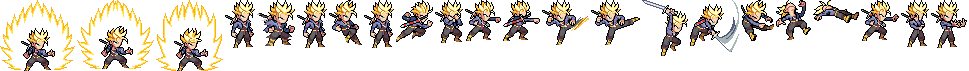
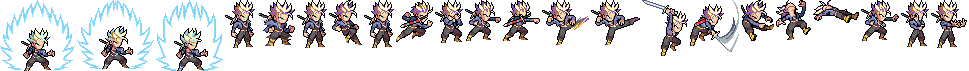
Formes Super Saiyan avec les vrais sprites des planches : SSJ, SSJ2 et SSJ3 (Goku), Trunks de base lavande
Claude-Session: https://claude.ai/code/session_01FhKFyMAgHcsF9rn4nPnHjt

diff --git a/js/game.js b/js/game.js
@@ -158,7 +158,7 @@ const whiteCache = new Map();
 
 function loadImages(onProgress) {
   const list = ['arena_tournoi.jpg'];
-  ROSTER.forEach(r => { list.push(r.id + '_idle.png', r.id + '_por.png', 'frames/' + r.id + '.png', 'beams/' + r.id + '.png'); if (SAIYANS.has(r.id)) list.push('frames/' + r.id + '_ssj.png'); });
+  ROSTER.forEach(r => { list.push(r.id + '_idle.png', r.id + '_por.png', 'frames/' + r.id + '.png', 'beams/' + r.id + '.png'); if (typeof FORMS !== 'undefined' && FORMS[r.id]) [...new Set(FORMS[r.id].map(x => x.atlas))].forEach(a => list.push('frames/' + a + '.png')); });
   let done = 0;
   return Promise.all(list.map(f => new Promise(res => {
     const im = new Image();
@@ -218,13 +218,16 @@ function toggleFullscreen() {
 const BOUNDS = { y0: 235, y1: 500 };
 function boundsX(y) { const t = (y - BOUNDS.y0) / (BOUNDS.y1 - BOUNDS.y0); return [140 - 70 * t, 820 + 70 * t]; }
 
-const SAIYANS = new Set(['goku', 'vegeta', 'gohan', 'trunks']);
-const SSJ_TIME = 1.5, SSJ_DUR = 45;
+const MAXFORM = { goku: 3, vegeta: 2, gohan: 2, trunks: 2 };
+const SAIYANS = new Set(Object.keys(MAXFORM));
+const SSJ_DUR = 45;
+const FORM_NAME = ['', 'SUPER SAIYAN', 'SUPER SAIYAN 2', 'SUPER SAIYAN 3'], FORM_TAG = ['', 'SSJ', 'SSJ2', 'SSJ3'];
+const FORM_TIME = [0, 1.5, 2.0, 2.6], FORM_DMG = [1, 1.3, 1.5, 1.75], FORM_DEF = [1, 0.88, 0.82, 0.75], FORM_SPD = [1, 1.12, 1.2, 1.28], FORM_DRAIN = [0, 0, 1.5, 4];
 
 class Fighter {
   constructor(def) {
     this.def = def; this.img = IMG[def.id + '_idle']; this.por = IMG[def.id + '_por'];
-    this.maxhp = def.hp; this.hp = def.hp; this.ki = 30; this.guard = 100; this.ssj = false; this.ssjT = 0; this.ssjLeft = 0;
+    this.maxhp = def.hp; this.hp = def.hp; this.ki = 30; this.guard = 100; this.form = 0; this.formT = 0; this.formLeft = 0;
     this.alive = true; this.reset(0, 0);
   }
   reset(x, y) {
@@ -288,7 +291,7 @@ class Battle {
   damage(att, tgt, P, kind) {
     if (!tgt.alive || tgt.state === 'ko' || tgt.inv > 0) return false;
     const mult = styleMult(att.def.style, tgt.def.style);
-    let D = P * (att.def.atk / tgt.def.def) * mult * rand(0.95, 1.05) * (att.ssj ? 1.3 : 1) * (tgt.ssj ? 0.88 : 1);
+    let D = P * (att.def.atk / tgt.def.def) * mult * rand(0.95, 1.05) * FORM_DMG[att.form] * FORM_DEF[tgt.form];
     const blocked = tgt.guarding && tgt.guardBroken <= 0 && sign(att.x - tgt.x) === tgt.face;
     const cy = tgt.y - 80;
     if (blocked) {
@@ -311,9 +314,9 @@ class Battle {
     if (tgt.hp <= 0) this.ko(tgt);
     return true;
   }
-  goSSJ(f) {
-    f.ssj = true; f.ssjT = 0; f.ssjLeft = SSJ_DUR; f.ki = 100; f.hp = Math.min(f.maxhp, f.hp + f.maxhp * 0.1); f.flash = 0.5; f.inv = Math.max(f.inv, 0.6); this.shake = 16;
-    this.spark(f.x, f.y - 70, '#ffe45f', 34, 420); this.pop(f.x, f.y - 190, 'SUPER SAIYAN !', '#ffe45f');
+  goForm(f) {
+    f.form++; f.formT = 0; f.formLeft = SSJ_DUR; f.ki = 100; f.hp = Math.min(f.maxhp, f.hp + f.maxhp * 0.1); f.flash = 0.5; f.inv = Math.max(f.inv, 0.6); this.shake = 14 + f.form * 4;
+    this.spark(f.x, f.y - 70, '#ffe45f', 24 + f.form * 12, 380 + f.form * 60); this.pop(f.x, f.y - 190, FORM_NAME[f.form] + ' !', '#ffe45f');
     Snd.play('ult'); Snd.voice(f.def.id, 'ult');
   }
   stun(f, d) { if (f.state === 'ko') return; f.state = 'hurt'; f.st = d; f.stDur = d; f.combo = 0; f.charging = false; f.fired = true; }
@@ -364,10 +367,14 @@ class Battle {
     f.shieldHit -= dt; f.guarding = false; if (f.state === 'idle' && inp.guard && f.guardBroken <= 0 && f.guard > 0) { f.guarding = true; f.guard -= 14 * dt; } else if (f.guard < 100 && f.guardBroken <= 0) f.guard = Math.min(100, f.guard + 18 * dt);
     if (f.guard < 0) f.guard = 0;
     f.gAge = f.guarding ? Math.min(1, f.gAge + dt * 9) : 0;
-    if (!f.charging && !f.ssj) f.ssjT = Math.max(0, f.ssjT - dt * 2);
-    if (f.ssj) { f.ssjLeft -= dt; if (f.ssjLeft <= 0) { f.ssj = false; this.pop(f.x, f.y - 170, 'FIN DU SSJ', '#ffffff'); } }
+    if (!f.charging) f.formT = Math.max(0, f.formT - dt * 2);
+    if (f.form > 0) {
+      f.formLeft -= dt; f.ki -= FORM_DRAIN[f.form] * dt;
+      if (f.formLeft <= 0) { f.form = 0; f.formT = 0; this.pop(f.x, f.y - 170, 'FIN DE LA TRANSFORMATION', '#ffffff'); }
+      else if (f.ki <= 0) { f.ki = 5; f.form--; f.formLeft = SSJ_DUR; this.pop(f.x, f.y - 170, f.form ? 'RETOUR ' + FORM_TAG[f.form] : 'FIN DE LA TRANSFORMATION', '#ffffff'); }
+    }
     f.charging = false;
-    const spd = def.spd * (f.ssj ? 1.12 : 1);
+    const spd = def.spd * FORM_SPD[f.form];
 
     if (f.state === 'hurt') { f.st -= dt; f.x += f.vx * dt; f.vx *= Math.pow(0.02, dt); if (f.st <= 0) { f.state = 'idle'; } this.clampPos(f); return; }
     f.x += f.vx * dt; f.vx *= Math.pow(0.02, dt);
@@ -399,7 +406,7 @@ class Battle {
     if (inp.ult && f.ki >= COST.ult) { f.ki -= COST.ult; f.state = 'ult'; f.st = f.stDur = 0.7; f.fired = false; Snd.play('ult'); Snd.voice(f.def.id, 'ult'); return; }
     if (inp.blast && f.ki >= COST.blast) { f.ki -= COST.blast; f.state = 'cast'; f.st = f.stDur = 0.26; f.fired = false; Snd.voice(f.def.id, 'hit', 0.5); return; }
     if (inp.atk) { if (f.comboT <= 0 && f.combo >= 3) f.combo = 0; if (f.comboT <= 0) f.combo = 0; this.startAtk(f); return; }
-    if (inp.charge && !f.guarding) { if (!f.charging && this.t - (f.cvT || -9) > 2.2) { f.cvT = this.t; Snd.voice(def.id, 'charge'); } f.charging = true; if (SAIYANS.has(def.id) && !f.ssj) { if (f.ki >= 99.9) { f.ssjT += dt; if (f.ssjT >= SSJ_TIME) { this.goSSJ(f); return; } } else f.ssjT = Math.max(0, f.ssjT - dt); } if (Math.random() < 0.4) this.parts.push({ x: f.x + rand(-30, 30), y: f.y - rand(10, 120), vx: 0, vy: -rand(60, 140), life: 0.5, max: 0.5, color: STYLES[def.style].c, size: 3 }); return; }
+    if (inp.charge && !f.guarding) { if (!f.charging && this.t - (f.cvT || -9) > 2.2) { f.cvT = this.t; Snd.voice(def.id, 'charge'); } f.charging = true; if (f.form < (MAXFORM[def.id] || 0)) { if (f.ki >= 99.9) { f.formT += dt; if (f.formT >= FORM_TIME[f.form + 1]) { this.goForm(f); return; } } else f.formT = Math.max(0, f.formT - dt); } if (Math.random() < 0.4) this.parts.push({ x: f.x + rand(-30, 30), y: f.y - rand(10, 120), vx: 0, vy: -rand(60, 140), life: 0.5, max: 0.5, color: STYLES[def.style].c, size: 3 }); return; }
     const k = f.guarding ? 0.3 : 1;
     f.walking = !!(inp.mx || inp.my) && !f.guarding; if (f.walking) f.wt += dt * 9;
     f.x += inp.mx * 285 * spd * k * dt; f.y += inp.my * 190 * spd * k * dt; this.clampPos(f);
@@ -433,7 +440,7 @@ class Battle {
         if (Math.random() < d.atk) k.atk = true; else if (Math.random() < 0.4) a.guardT = 0.4; else k.mx = -sign(dx);
       } else if (Math.abs(dy) < 28 && dist > 190 && f.ki >= COST.blast && Math.random() < d.blast) k.blast = true;
       else if (f.ki < 20 && dist > 300 && Math.random() < 0.5) k.charge = true;
-      else if (SAIYANS.has(f.def.id) && !f.ssj && f.ki >= 95 && dist > 330 && Math.random() < 0.6) k.charge = true;
+      else if (f.form < (MAXFORM[f.def.id] || 0) && f.ki >= 95 && dist > 330 && Math.random() < 0.6) k.charge = true;
       else {
         k.mx = Math.abs(dx) > 80 ? sign(dx) : 0; k.my = Math.abs(dy) > 14 ? sign(dy) : 0;
       }
@@ -546,7 +553,7 @@ class Battle {
     this.drawHUD();
   }
   pickFrame(f) {
-    const fr = typeof FRAMES !== 'undefined' && FRAMES[f.def.id], at = (f.ssj && IMG['atlas_' + f.def.id + '_ssj']) || IMG['atlas_' + f.def.id];
+    const fm = f.form > 0 && typeof FORMS !== 'undefined' && FORMS[f.def.id] && FORMS[f.def.id][f.form - 1], fr = fm ? fm.fr : (typeof FRAMES !== 'undefined' && FRAMES[f.def.id]), at = fm ? IMG['atlas_' + fm.atlas] : IMG['atlas_' + f.def.id];
     if (!fr || !at || !at.width) return null;
     let r = fr.idle;
     const pair = k => { const v = fr[k]; return Array.isArray(v[0]) ? v : [v, v]; };
@@ -557,7 +564,7 @@ class Battle {
     else if (f.state === 'cast') r = fr.cast;
     else if (f.state === 'ult') r = f.fired ? fr.ultf : fr.ultw;
     else if (f.guarding) r = fr.guard;
-    else if (f.charging && fr.charge && !f.ssj) { const c = fr.charge; r = Array.isArray(c[0]) ? c[Math.floor(f.anim * 10) % c.length] : c; }
+    else if (f.charging && fr.charge) { const c = fr.charge; r = Array.isArray(c[0]) ? c[Math.floor(f.anim * 10) % c.length] : c; }
     else if (f.walking && fr.walk) { const w = fr.walk; r = Array.isArray(w[0]) ? w[Math.floor(f.wt) % w.length] : w; }
     return { at, r, ref: fr.idle };
   }
@@ -577,13 +584,22 @@ class Battle {
       for (let i = 0; i < 2; i++) { const q = ((f.anim * 1.6 + i * 0.5) % 1); ctx.save(); ctx.globalAlpha = (1 - q) * 0.7; ctx.strokeStyle = STYLES[f.def.style].c; ctx.lineWidth = 3; ctx.beginPath(); ctx.ellipse(0, 2, 30 + q * 70, 7 + q * 16, 0, 0, 6.3); ctx.stroke(); ctx.restore(); }
       if (AURA[f.def.id]) auraFlames(0, 0, h0 * 1.6, AURA[f.def.id], f.anim);
     }
-    if (f.ssj || f.ssjT > 0) {
-      const k = f.ssj ? 1 : f.ssjT / SSJ_TIME, fl = 0.75 + 0.25 * Math.sin(f.anim * 25);
+    if (f.form > 0 || f.formT > 0) {
+      const nf = Math.max(1, f.form), k = f.form > 0 ? 1 : f.formT / FORM_TIME[f.form + 1], fl = 0.75 + 0.25 * Math.sin(f.anim * 25), sz = 1 + 0.3 * (nf - 1);
       ctx.save(); ctx.globalCompositeOperation = 'lighter';
-      const g = ctx.createRadialGradient(0, -h0 / 2, 8, 0, -h0 / 2, 70 + 55 * k); g.addColorStop(0, 'rgba(255,230,90,' + (0.55 * k * fl) + ')'); g.addColorStop(1, 'rgba(255,200,40,0)');
-      ctx.fillStyle = g; ctx.fillRect(-140, -h0 - 80, 280, h0 + 120);
+      const g = ctx.createRadialGradient(0, -h0 / 2, 8, 0, -h0 / 2, (70 + 55 * k) * sz); g.addColorStop(0, 'rgba(255,230,90,' + (0.55 * k * fl) + ')'); g.addColorStop(1, 'rgba(255,200,40,0)');
+      ctx.fillStyle = g; ctx.fillRect(-170, -h0 - 110, 340, h0 + 150);
       ctx.fillStyle = 'rgba(255,225,80,' + (0.5 * k) + ')';
-      for (let i = 0; i < 7; i++) { const ph = (f.anim * 3 + i * 0.37) % 1, bx = (i - 3) * 11 + Math.sin(f.anim * 9 + i) * 4, bh = (40 + (i % 3) * 22) * (1 - ph * 0.3) * k; ctx.beginPath(); ctx.moveTo(bx - 6, 0); ctx.lineTo(bx, -h0 * 0.55 - bh); ctx.lineTo(bx + 6, 0); ctx.fill(); }
+      const nb = 5 + nf * 2;
+      for (let i = 0; i < nb; i++) { const ph = (f.anim * 3 + i * 0.37) % 1, bx = (i - nb / 2) * (22 / nb * 3) + Math.sin(f.anim * 9 + i) * 4, bh = (40 + (i % 3) * 22) * sz * (1 - ph * 0.3) * k; ctx.beginPath(); ctx.moveTo(bx - 6, 0); ctx.lineTo(bx, -h0 * 0.55 - bh); ctx.lineTo(bx + 6, 0); ctx.fill(); }
+      if (f.form >= 2) {
+        ctx.strokeStyle = 'rgba(190,240,255,0.9)'; ctx.lineWidth = 2;
+        for (let i = 0; i < 2 + f.form; i++) {
+          if (Math.sin(f.anim * 37 + i * 5.1) < 0.2) continue;
+          let x = rand(-34, 34), y = -rand(5, h0); ctx.beginPath(); ctx.moveTo(x, y);
+          for (let n = 0; n < 4; n++) { x += rand(-14, 14); y += rand(-14, 14); ctx.lineTo(x, y); } ctx.stroke();
+        }
+      }
       ctx.restore();
     }
     if (f.charging) { const g = ctx.createRadialGradient(0, -h0 / 2, 10, 0, -h0 / 2, 110); g.addColorStop(0, STYLES[f.def.style].c + 'aa'); g.addColorStop(1, STYLES[f.def.style].c + '00'); ctx.fillStyle = g; ctx.fillRect(-120, -h0 - 40, 240, h0 + 80); }
@@ -596,7 +612,7 @@ class Battle {
     if (f.flash > 0) { ctx.globalAlpha = clamp(f.flash / 0.12, 0, 1) * 0.85; draw(whiteOf(im)); }
     ctx.restore();
     if (f.guarding || f.shieldHit > 0) this.drawShield(f, h0);
-    if (f.ssjT > 0 && !f.ssj) { const w = 56; ctx.fillStyle = 'rgba(0,0,0,0.6)'; ctx.fillRect(f.x - w / 2 - 1, f.y - h0 - 22, w + 2, 7); ctx.fillStyle = '#ffe45f'; ctx.fillRect(f.x - w / 2, f.y - h0 - 21, w * f.ssjT / SSJ_TIME, 5); }
+    if (f.formT > 0 && f.form < (MAXFORM[f.def.id] || 0)) { const w = 56; ctx.fillStyle = 'rgba(0,0,0,0.6)'; ctx.fillRect(f.x - w / 2 - 1, f.y - h0 - 22, w + 2, 7); ctx.fillStyle = '#ffe45f'; ctx.fillRect(f.x - w / 2, f.y - h0 - 21, w * f.formT / FORM_TIME[f.form + 1], 5); }
     if (f.state === 'atk') { ctx.save(); ctx.globalAlpha = 0.5 * f.lunge; ctx.strokeStyle = '#fff'; ctx.lineWidth = 4; ctx.beginPath(); ctx.arc(f.x + f.face * 52, f.y - h0 * 0.55, 34, f.face > 0 ? -1.2 : Math.PI - 1.2 + 0.0, f.face > 0 ? 1.2 : Math.PI + 1.2); ctx.stroke(); ctx.restore(); }
     if (this.team(f) === this.p && f === this.p.f && this.state !== 'end') txt('▼', f.x, f.y - h0 - 8, { size: 16, align: 'center', color: '#ffd23f', shadow: '#000' });
   }
@@ -707,8 +723,8 @@ class Battle {
   drawBars(f, edge, right) {
     const w = 400, x = right ? edge - w : edge;
     txt('KI', right ? x : x, 90, { size: 11, font: LABEL, color: '#ffd23f' });
-    bar(x + 22, 82, w - 22, 9, f.ki / 100, f.ssj ? '#fff27a' : '#ffd23f', 'rgba(255,255,255,0.12)');
-    if (f.ssj) txt('SSJ ' + Math.ceil(f.ssjLeft) + 's', right ? edge : edge, 120, { size: 11, font: LABEL, color: '#ffe45f', align: right ? 'right' : 'left' });
+    bar(x + 22, 82, w - 22, 9, f.ki / 100, f.form ? '#fff27a' : '#ffd23f', 'rgba(255,255,255,0.12)');
+    if (f.form) txt(FORM_TAG[f.form] + ' ' + Math.ceil(f.formLeft) + 's', right ? edge : edge, 120, { size: 11, font: LABEL, color: '#ffe45f', align: right ? 'right' : 'left' });
     txt('GD', x, 104, { size: 11, font: LABEL, color: '#35d0ff' });
     bar(x + 22, 98, w - 22, 6, f.guard / 100, f.guardBroken > 0 ? '#ff4a3a' : '#35d0ff', 'rgba(255,255,255,0.12)', false);
   }
@@ -838,7 +854,7 @@ const Scenes = {
   },
   controls(dt) {
     bgWarm(); txt('COMMANDES', 36, 60, { size: 34, color: '#ffb02e', shadow: '#3a1200' });
-    const rows = [['FLÈCHES / ZQSD / WASD', 'Se déplacer'], ['J', 'Attaque (combo en 3 coups)'], ['K', 'Boule de ki (10 ki)'], ['L', 'Attaque ultime (60 ki)'], ['ESPACE', 'Esquive éclair (8 ki)'], ['MAJ', 'Garde'], ['C', 'Charger le ki (Saiyans : ki max = Super Saiyan)'], ['1 / 2 / 3', 'Changer de combattant'], ['F', 'Plein écran'], ['M', 'Couper le son'], ['ÉCHAP', 'Pause']];
+    const rows = [['FLÈCHES / ZQSD / WASD', 'Se déplacer'], ['J', 'Attaque (combo en 3 coups)'], ['K', 'Boule de ki (10 ki)'], ['L', 'Attaque ultime (60 ki)'], ['ESPACE', 'Esquive éclair (8 ki)'], ['MAJ', 'Garde'], ['C', 'Charger le ki (Saiyans : ki max = Super Saiyan, SSJ2, SSJ3)'], ['1 / 2 / 3', 'Changer de combattant'], ['F', 'Plein écran'], ['M', 'Couper le son'], ['ÉCHAP', 'Pause']];
     rows.forEach((r, i) => { const y = 110 + i * 34; panel(80, y - 22, 220, 30, { c: 6 }); txt(r[0], 92, y, { size: 14, font: LABEL, color: '#ffd23f' }); txt(r[1], 330, y, { size: 18 }); });
     txt('Cycle de styles : FORCE > TECH > RUSE > KI > VIT > FORCE  (×1,25 / ×0,8)', 80, 500, { size: 14, color: '#e0b080' });
     txt('ÉCHAP : RETOUR', W - 36, 52, { size: 12, align: 'right', font: LABEL, color: '#e0b080' });

diff --git a/js/forms.js b/js/forms.js
@@ -1,0 +1,2 @@
+// Généré : formes Super Saiyan (atlas + positions)
+const FORMS = {"goku": [{"atlas": "goku_f1", "fr": {"idle": [0, 0, 27, 55], "walk": [[29, 0, 27, 55], [58, 0, 32, 52]], "dash": [92, 0, 34, 51], "guard": [128, 0, 33, 52], "atk1": [[163, 0, 38, 52], [203, 0, 33, 52]], "atk2": [[238, 0, 32, 52], [272, 0, 34, 51]], "atk3": [[308, 0, 34, 51], [344, 0, 39, 51]], "hurt": [385, 0, 47, 48], "stun": [434, 0, 30, 52], "ko": [466, 0, 55, 29], "cast": [523, 0, 39, 51], "ultw": [564, 0, 50, 58], "ultf": [616, 0, 39, 51], "charge": [657, 0, 63, 78]}}, {"atlas": "goku_f1", "fr": {"idle": [0, 0, 27, 55], "walk": [[29, 0, 27, 55], [58, 0, 32, 52]], "dash": [92, 0, 34, 51], "guard": [128, 0, 33, 52], "atk1": [[163, 0, 38, 52], [203, 0, 33, 52]], "atk2": [[238, 0, 32, 52], [272, 0, 34, 51]], "atk3": [[308, 0, 34, 51], [344, 0, 39, 51]], "hurt": [385, 0, 47, 48], "stun": [434, 0, 30, 52], "ko": [466, 0, 55, 29], "cast": [523, 0, 39, 51], "ultw": [564, 0, 50, 58], "ultf": [616, 0, 39, 51], "charge": [657, 0, 63, 78]}, "sparks": 1}, {"atlas": "goku_f3", "fr": {"idle": [0, 0, 28, 52], "walk": [[30, 0, 28, 52], [60, 0, 36, 55]], "dash": [98, 0, 43, 54], "guard": [143, 0, 45, 64], "atk1": [[190, 0, 44, 54], [236, 0, 36, 55]], "atk2": [[274, 0, 36, 54], [312, 0, 47, 53]], "atk3": [[361, 0, 40, 47], [403, 0, 47, 54]], "hurt": [452, 0, 47, 57], "stun": [501, 0, 30, 52], "ko": [533, 0, 55, 29], "cast": [590, 0, 47, 54], "ultw": [639, 0, 43, 54], "ultf": [684, 0, 47, 54], "charge": [[733, 0, 63, 78], [798, 0, 69, 78]]}}], "vegeta": [{"atlas": "vegeta_f1", "fr": {"idle": [0, 0, 33, 51], "walk": [[35, 0, 33, 51], [70, 0, 28, 52]], "dash": [100, 0, 33, 53], "guard": [135, 0, 27, 52], "atk1": [[164, 0, 28, 52], [194, 0, 26, 53]], "atk2": [[222, 0, 30, 50], [254, 0, 29, 52]], "atk3": [[285, 0, 33, 53], [320, 0, 23, 47]], "hurt": [345, 0, 40, 42], "stun": [387, 0, 36, 37], "ko": [425, 0, 31, 35], "cast": [458, 0, 68, 68], "ultw": [528, 0, 87, 75], "ultf": [617, 0, 68, 68], "charge": [[687, 0, 65, 86], [754, 0, 69, 83]]}}, {"atlas": "vegeta_f1", "fr": {"idle": [0, 0, 33, 51], "walk": [[35, 0, 33, 51], [70, 0, 28, 52]], "dash": [100, 0, 33, 53], "guard": [135, 0, 27, 52], "atk1": [[164, 0, 28, 52], [194, 0, 26, 53]], "atk2": [[222, 0, 30, 50], [254, 0, 29, 52]], "atk3": [[285, 0, 33, 53], [320, 0, 23, 47]], "hurt": [345, 0, 40, 42], "stun": [387, 0, 36, 37], "ko": [425, 0, 31, 35], "cast": [458, 0, 68, 68], "ultw": [528, 0, 87, 75], "ultf": [617, 0, 68, 68], "charge": [[687, 0, 65, 86], [754, 0, 69, 83]]}, "sparks": 1}], "gohan": [{"atlas": "gohan_f1", "fr": {"idle": [0, 0, 29, 46], "charge": [[31, 0, 60, 66], [93, 0, 62, 64], [157, 0, 64, 66]], "walk": [[223, 0, 29, 46], [254, 0, 28, 45], [284, 0, 29, 46], [315, 0, 30, 46]], "dash": [347, 0, 32, 42], "guard": [381, 0, 21, 46], "atk1": [[404, 0, 32, 44], [438, 0, 32, 44]], "atk2": [[472, 0, 29, 44], [503, 0, 29, 43]], "atk3": [[534, 0, 37, 44], [573, 0, 38, 44]], "hurt": [613, 0, 23, 47], "stun": [638, 0, 24, 47], "ko": [664, 0, 46, 21], "cast": [712, 0, 26, 43], "ultw": [740, 0, 28, 42], "ultf": [770, 0, 34, 43]}}, {"atlas": "gohan_f2", "fr": {"idle": [0, 0, 29, 46], "charge": [[31, 0, 62, 66], [95, 0, 62, 64], [159, 0, 64, 66]], "walk": [[225, 0, 29, 46], [256, 0, 28, 46], [286, 0, 29, 46], [317, 0, 30, 46]], "dash": [349, 0, 32, 42], "guard": [383, 0, 21, 46], "atk1": [[406, 0, 32, 43], [440, 0, 32, 43]], "atk2": [[474, 0, 29, 43], [505, 0, 29, 43]], "atk3": [[536, 0, 37, 43], [575, 0, 38, 44]], "hurt": [615, 0, 23, 47], "stun": [640, 0, 24, 47], "ko": [666, 0, 46, 21], "cast": [714, 0, 26, 43], "ultw": [742, 0, 28, 42], "ultf": [772, 0, 34, 43]}}], "trunks": [{"atlas": "trunks_f1", "fr": {"charge": [[0, 0, 75, 71], [77, 0, 77, 69], [156, 0, 67, 71]], "walk": [[225, 0, 30, 48], [257, 0, 38, 46], [297, 0, 30, 48], [329, 0, 33, 45]], "idle": [364, 0, 30, 48], "dash": [396, 0, 37, 42], "guard": [435, 0, 28, 43], "atk1": [[465, 0, 36, 41], [503, 0, 37, 41]], "atk2": [[542, 0, 47, 45], [591, 0, 49, 45]], "atk3": [[642, 0, 46, 56], [690, 0, 49, 52]], "hurt": [741, 0, 33, 41], "stun": [776, 0, 35, 40], "ko": [813, 0, 46, 23], "cast": [861, 0, 38, 41], "ultw": [901, 0, 28, 47], "ultf": [931, 0, 36, 48]}}, {"atlas": "trunks_f1", "fr": {"charge": [[0, 0, 75, 71], [77, 0, 77, 69], [156, 0, 67, 71]], "walk": [[225, 0, 30, 48], [257, 0, 38, 46], [297, 0, 30, 48], [329, 0, 33, 45]], "idle": [364, 0, 30, 48], "dash": [396, 0, 37, 42], "guard": [435, 0, 28, 43], "atk1": [[465, 0, 36, 41], [503, 0, 37, 41]], "atk2": [[542, 0, 47, 45], [591, 0, 49, 45]], "atk3": [[642, 0, 46, 56], [690, 0, 49, 52]], "hurt": [741, 0, 33, 41], "stun": [776, 0, 35, 40], "ko": [813, 0, 46, 23], "cast": [861, 0, 38, 41], "ultw": [901, 0, 28, 47], "ultf": [931, 0, 36, 48]}, "sparks": 1}]};

diff --git a/index.html b/index.html
@@ -14,6 +14,7 @@
 <div id="wrap"><canvas id="game" width="960" height="540"></canvas></div>
 <script src="js/data.js"></script>
 <script src="js/frames.js"></script>
+<script src="js/forms.js"></script>
 <script src="js/voices.js"></script>
 <script src="js/sfxmap.js"></script>
 <script src="js/game.js"></script>

diff --git a/README.md b/README.md
@@ -18,7 +18,7 @@ Ouvre `index.html` via un petit serveur local (`python3 -m http.server`) ou la v
 | L | Attaque ultime (60 ki) |
 | Espace | Esquive éclair (8 ki) |
 | Maj | Garde |
-| C | Charger le ki (Saiyans : maintenir à ki max pour passer Super Saiyan) |
+| C | Charger le ki (Saiyans : maintenir à ki max pour se transformer, jusqu'au SSJ3 pour Goku) |
 | 1 / 2 / 3 | Changer de combattant |
 | F / M / Échap | Plein écran / son / pause |
 
